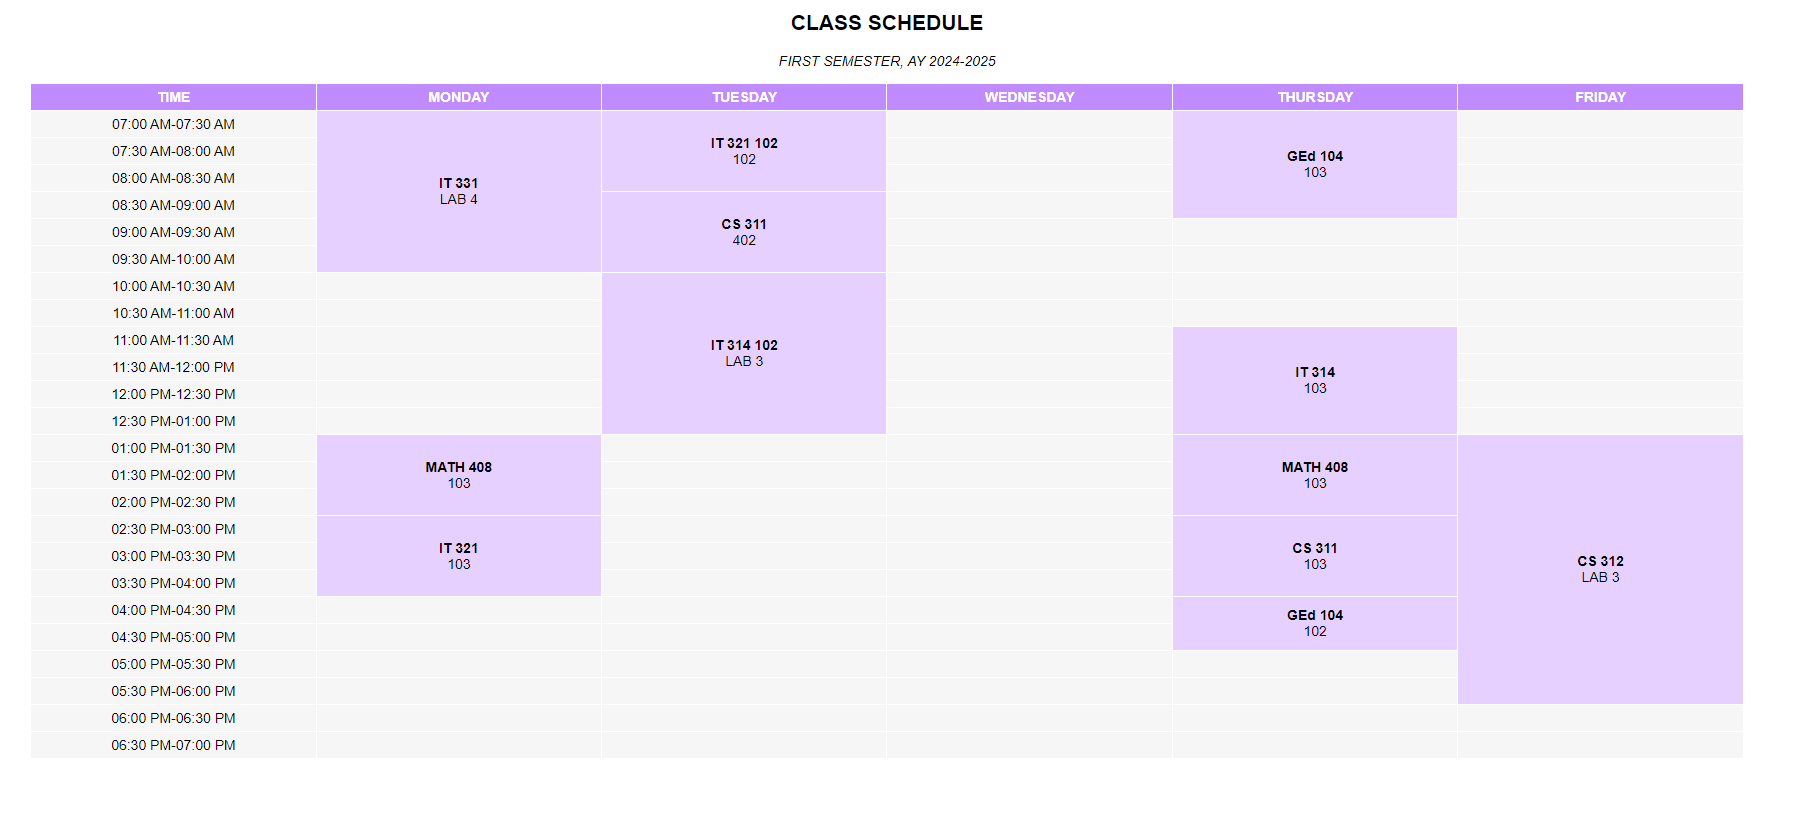
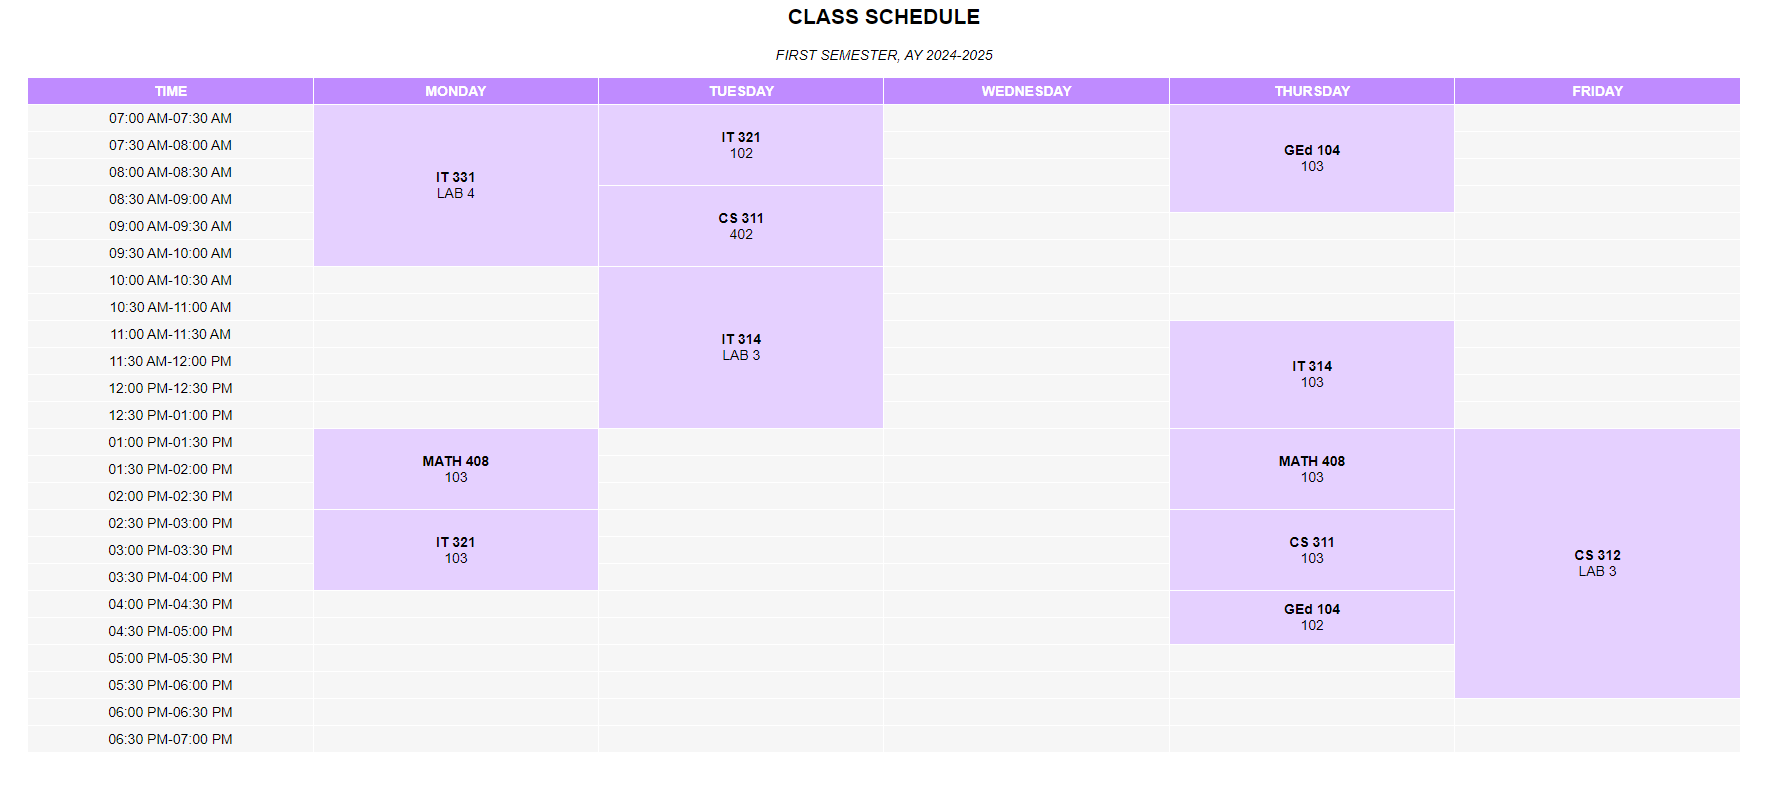
Fixed Typos

diff --git a/Laboratory Activities/Laboratory Activity 1 - 05-September-2024/html-tables.html b/Laboratory Activities/Laboratory Activity 1 - 05-September-2024/html-tables.html
@@ -51,7 +51,7 @@
                 LAB 4
             </td>
             <td class = "schedule" rowspan = "3">
-                <b>IT 321 102</b>
+                <b>IT 321</b>
                 <br>
                 102
             </td>
@@ -99,7 +99,7 @@
             <td>10:00 AM-10:30 AM</td>
             <td></td>
             <td class = "schedule" rowspan = "6">
-                <b>IT 314 102</b>
+                <b>IT 314</b>
                 <br>
                 LAB 3
             </td>
